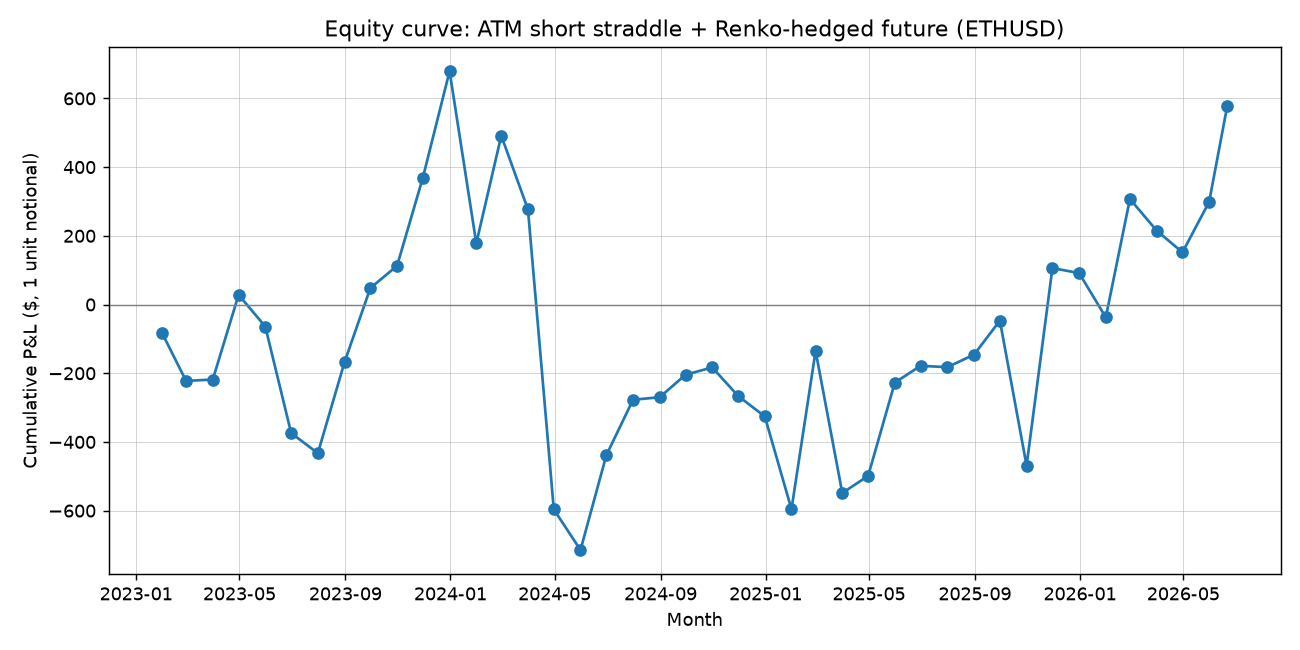
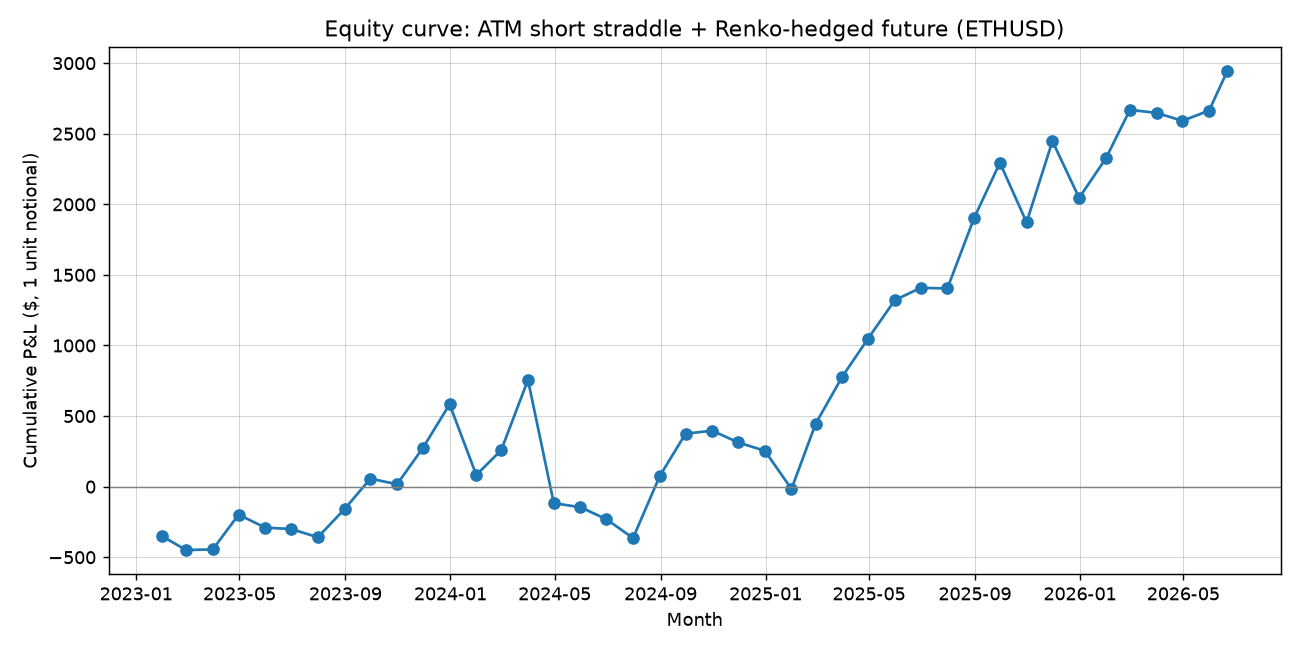
Port Renko signal from SiddWolf Pine indicator (asymmetric trend/reversal ticks)

diff --git a/backtest.py b/backtest.py
@@ -9,9 +9,10 @@ Rules
   intrinsic moneyness created by rounding to the nearest strike (i.e. you are
   not selling exactly at spot, so the fixed premium is topped up/down by the
   strike/spot gap).
-- Renko signal (ATR-based brick size, computed from close-to-close ranges)
-  is evaluated daily. On the initiation day, open 1 unit of future: long if
-  Renko is up, short if Renko is down.
+- Renko signal ported from the "Universal Renko Bars by SiddWolf" Pine
+  indicator (ATR Based method, multiplier 0.15, tick_trend=2,
+  tick_reversal=4, open_offset=0), evaluated once per daily close. On the
+  initiation day, open 1 unit of future: long if Renko is up, short if down.
 - During the month, a Renko flip alone is ignored. The hedge only flips when
   BOTH hold: price crosses the strike (neutral point) AND Renko agrees with
   the new direction (long->short needs price < strike and Renko down;
@@ -30,6 +31,10 @@ import matplotlib.pyplot as plt
 PREMIUM_RATE = 0.068      # 6.8% per side, fixed
 STRIKE_STEP = 50          # ETH strikes quoted in $50 increments (Deribit-like)
 ATR_LEN = 14
+RENKO_ATR_MULT = 0.15     # "ATR 14 Multiplier" default from the Pine indicator
+RENKO_TICK_TREND = 2      # ticks needed to continue the trend
+RENKO_TICK_REVERSAL = 4   # ticks needed to reverse the trend
+RENKO_OPEN_OFFSET = 0
 
 
 def load_prices(path):
@@ -43,51 +48,73 @@ def load_prices(path):
 
 
 def compute_atr_proxy(closes, length=ATR_LEN):
-    """True-range proxy from close-only data: |close[t]-close[t-1]|."""
+    """
+    True-range proxy from close-only data: |close[t]-close[t-1]|, smoothed
+    with Wilder's RMA (matching Pine's ta.atr) since real OHLC isn't
+    available from the daily close-only price feed used here.
+    """
     tr = [None] + [abs(closes[i] - closes[i - 1]) for i in range(1, len(closes))]
     atr = [None] * len(closes)
-    for i in range(length, len(closes)):
-        window = tr[i - length + 1:i + 1]
-        atr[i] = sum(window) / length
+    seed_idx = length  # first index with `length` TR values (tr[1..length])
+    if seed_idx >= len(closes):
+        return atr
+    atr[seed_idx] = sum(tr[1:seed_idx + 1]) / length
+    for i in range(seed_idx + 1, len(closes)):
+        atr[i] = (atr[i - 1] * (length - 1) + tr[i]) / length
     return atr
 
 
-def compute_renko_signal(dates, closes, atr):
+def get_tick_size(price_ref, atr_value, atr_multiplier=RENKO_ATR_MULT):
+    """Port of getEffectiveTickSize() for the 'ATR Based' method."""
+    if atr_value is None:
+        return price_ref * 0.001
+    return atr_value * atr_multiplier
+
+
+def compute_renko_signal(dates, closes, atr, tick_trend=RENKO_TICK_TREND,
+                          tick_reversal=RENKO_TICK_REVERSAL, open_offset=RENKO_OPEN_OFFSET):
     """
-    Daily Renko direction using an ATR-based brick size that is re-evaluated
-    each time a new brick forms. Returns a list of +1/-1/None (None during
-    ATR warm-up).
+    Port of the "Universal Renko Bars" Pine indicator (ATR Based method),
+    evaluated once per daily close (equivalent to one bar in Pine). A new
+    brick confirms when close crosses bar_max (continuation/reversal up) or
+    bar_min (continuation/reversal down); the brick closes exactly at that
+    level (not at the raw price), same as the Pine script. Continuation
+    needs `tick_trend` ticks, reversal needs `tick_reversal` ticks (ticks are
+    asymmetric, as in the original script's defaults of 2 / 4).
+
+    Returns a list of +1/-1/None (None until the first brick confirms).
     """
-    signal = [None] * len(closes)
-    direction = None
-    ref = None
-    start = next(i for i, a in enumerate(atr) if a is not None)
-    ref = closes[start]
-    for i in range(start, len(closes)):
-        brick = atr[i]
-        if brick is None or brick <= 0:
-            signal[i] = direction
-            continue
-        if direction is None:
-            if closes[i] - ref >= brick:
-                direction = 1
-                ref = ref + brick * math.floor((closes[i] - ref) / brick)
-            elif ref - closes[i] >= brick:
-                direction = -1
-                ref = ref - brick * math.floor((ref - closes[i]) / brick)
-        elif direction == 1:
-            if closes[i] - ref >= brick:
-                ref = ref + brick * math.floor((closes[i] - ref) / brick)
-            elif ref - closes[i] >= brick:
-                direction = -1
-                ref = ref - brick * math.floor((ref - closes[i]) / brick)
-        else:
-            if ref - closes[i] >= brick:
-                ref = ref - brick * math.floor((ref - closes[i]) / brick)
-            elif closes[i] - ref >= brick:
-                direction = 1
-                ref = ref + brick * math.floor((closes[i] - ref) / brick)
-        signal[i] = direction
+    n = len(closes)
+    signal = [None] * n
+    start = next((i for i, a in enumerate(atr) if a is not None), None)
+    if start is None:
+        return signal
+
+    tick0 = get_tick_size(closes[start], atr[start])
+    bar_open = closes[start]
+    bar_direction = 0
+    bar_max = bar_open + tick_trend * tick0
+    bar_min = bar_open - tick_trend * tick0
+
+    for i in range(start + 1, n):
+        price = closes[i]
+        max_exceeded = price > bar_max
+        min_exceeded = price < bar_min
+
+        if max_exceeded or min_exceeded:
+            bar_direction = 1 if max_exceeded else -1
+            this_close = bar_max if max_exceeded else bar_min
+            current_tick = get_tick_size(this_close, atr[i])
+            bar_open = this_close - open_offset * current_tick * bar_direction
+            if bar_direction > 0:
+                bar_max = this_close + tick_trend * current_tick
+                bar_min = this_close - tick_reversal * current_tick
+            else:
+                bar_max = this_close + tick_reversal * current_tick
+                bar_min = this_close - tick_trend * current_tick
+
+        signal[i] = bar_direction if bar_direction != 0 else None
+
     return signal
 
 

diff --git a/README.md b/README.md
@@ -15,9 +15,9 @@ ETH future whose side (long/short) is driven by a daily Renko signal.
   agrees with the new direction.
 - At expiry, options are cash-settled against intrinsic value and any open
   hedge leg is closed at the settlement price.
-- The Renko signal uses an ATR(14)-based brick size, recomputed from
-  close-to-close ranges (true OHLC ATR isn't available from the daily
-  close-only price feed used here).
+- ATR(14) is approximated from close-to-close ranges with Wilder's RMA
+  smoothing (true OHLC ATR isn't available from the daily close-only
+  price feed used here).
 
 ## Data
 
@@ -37,7 +37,7 @@ Outputs `results.csv` (per-month P&L breakdown) and `equity_curve.png`
 ## Result snapshot (42 months, 1 unit ETH notional)
 
 - 23/42 winning months
-- Total P&L: ~$577.6 (~0.91% of spot per month on average)
+- Total P&L: ~$2,943 (~4.44% of spot per month on average)
 
 This is a simplified, fixed-premium model (not real options market prices)
 intended to illustrate the hedge-switching mechanics, not as a production
